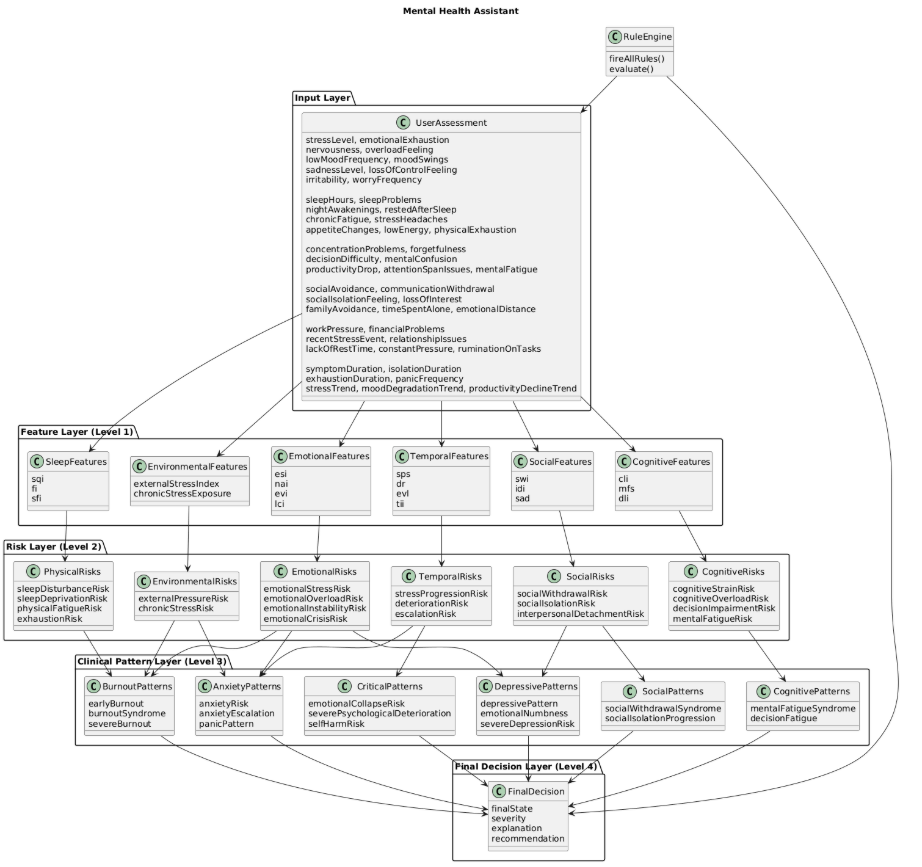
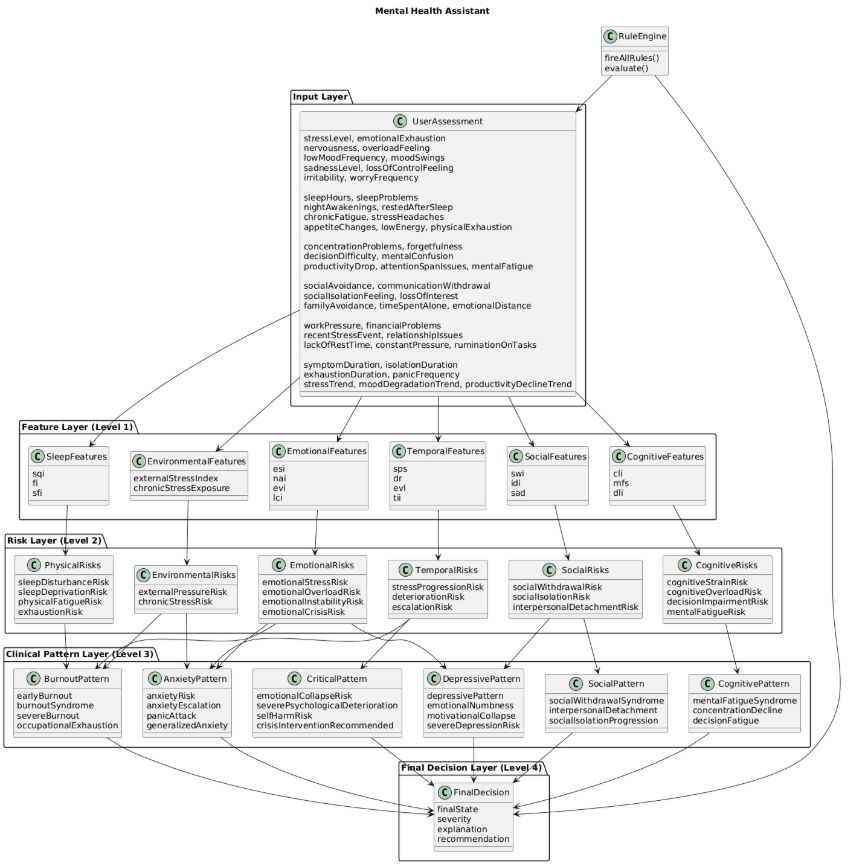
[ADD] patterns and final decision classes

diff --git a/projekat/model/src/main/java/com/ftn/sbnz/model/decision/FinalDecision.java b/projekat/model/src/main/java/com/ftn/sbnz/model/decision/FinalDecision.java
@@ -1,0 +1,62 @@
+package com.ftn.sbnz.model.decision;
+import java.util.List;
+
+public class FinalDecision {
+    private FinalState finalState;
+    private Severity severity;
+
+    private String explanation;
+    private String recommendation;
+
+    private List<String> triggeredPatterns;
+    public FinalDecision(FinalState finalState, Severity severity, String explanation, String recommendation,
+            List<String> triggeredPatterns) {
+        this.finalState = finalState;
+        this.severity = severity;
+        this.explanation = explanation;
+        this.recommendation = recommendation;
+        this.triggeredPatterns = triggeredPatterns;
+    }
+
+    public FinalState getFinalState() {
+        return finalState;
+    }
+
+    public void setFinalState(FinalState finalState) {
+        this.finalState = finalState;
+    }
+
+    public Severity getSeverity() {
+        return severity;
+    }
+
+    public void setSeverity(Severity severity) {
+        this.severity = severity;
+    }
+
+    public String getExplanation() {
+        return explanation;
+    }
+
+    public void setExplanation(String explanation) {
+        this.explanation = explanation;
+    }
+
+    public String getRecommendation() {
+        return recommendation;
+    }
+
+    public void setRecommendation(String recommendation) {
+        this.recommendation = recommendation;
+    }
+
+    public List<String> getTriggeredPatterns() {
+        return triggeredPatterns;
+    }
+
+    public void setTriggeredPatterns(List<String> triggeredPatterns) {
+        this.triggeredPatterns = triggeredPatterns;
+    }
+    
+
+}

diff --git a/projekat/model/src/main/java/com/ftn/sbnz/model/patterns/AnxietyPattern.java b/projekat/model/src/main/java/com/ftn/sbnz/model/patterns/AnxietyPattern.java
@@ -1,0 +1,40 @@
+package com.ftn.sbnz.model.patterns;
+
+public class AnxietyPattern {
+    private boolean anxietyRisk;
+    private boolean anxietyEscalation;
+    private boolean panicAttack;
+    private boolean generalizedAnxiety;
+    public AnxietyPattern(boolean anxietyRisk, boolean anxietyEscalation, boolean panicAttack,
+            boolean generalizedAnxiety) {
+        this.anxietyRisk = anxietyRisk;
+        this.anxietyEscalation = anxietyEscalation;
+        this.panicAttack = panicAttack;
+        this.generalizedAnxiety = generalizedAnxiety;
+    }
+    public boolean isAnxietyRisk() {
+        return anxietyRisk;
+    }
+    public void setAnxietyRisk(boolean anxietyRisk) {
+        this.anxietyRisk = anxietyRisk;
+    }
+    public boolean isAnxietyEscalation() {
+        return anxietyEscalation;
+    }
+    public void setAnxietyEscalation(boolean anxietyEscalation) {
+        this.anxietyEscalation = anxietyEscalation;
+    }
+    public boolean isPanicAttack() {
+        return panicAttack;
+    }
+    public void setPanicAttack(boolean panicAttack) {
+        this.panicAttack = panicAttack;
+    }
+    public boolean isGeneralizedAnxiety() {
+        return generalizedAnxiety;
+    }
+    public void setGeneralizedAnxiety(boolean generalizedAnxiety) {
+        this.generalizedAnxiety = generalizedAnxiety;
+    }
+    
+}

diff --git a/projekat/model/src/main/java/com/ftn/sbnz/model/patterns/BurnoutPattern.java b/projekat/model/src/main/java/com/ftn/sbnz/model/patterns/BurnoutPattern.java
@@ -1,0 +1,40 @@
+package com.ftn.sbnz.model.patterns;
+
+public class BurnoutPattern {
+    private boolean earlyBurnout;
+    private boolean burnoutSyndrome;
+    private boolean severeBurnoutState;
+    private boolean occupationalExhaustion;
+    public BurnoutPattern(boolean earlyBurnout, boolean burnoutSyndrome, boolean severeBurnoutState,
+            boolean occupationalExhaustion) {
+        this.earlyBurnout = earlyBurnout;
+        this.burnoutSyndrome = burnoutSyndrome;
+        this.severeBurnoutState = severeBurnoutState;
+        this.occupationalExhaustion = occupationalExhaustion;
+    }
+    public boolean isEarlyBurnout() {
+        return earlyBurnout;
+    }
+    public void setEarlyBurnout(boolean earlyBurnout) {
+        this.earlyBurnout = earlyBurnout;
+    }
+    public boolean isBurnoutSyndrome() {
+        return burnoutSyndrome;
+    }
+    public void setBurnoutSyndrome(boolean burnoutSyndrome) {
+        this.burnoutSyndrome = burnoutSyndrome;
+    }
+    public boolean isSevereBurnoutState() {
+        return severeBurnoutState;
+    }
+    public void setSevereBurnoutState(boolean severeBurnoutState) {
+        this.severeBurnoutState = severeBurnoutState;
+    }
+    public boolean isOccupationalExhaustion() {
+        return occupationalExhaustion;
+    }
+    public void setOccupationalExhaustion(boolean occupationalExhaustion) {
+        this.occupationalExhaustion = occupationalExhaustion;
+    }
+    
+}

diff --git a/projekat/model/src/main/java/com/ftn/sbnz/model/patterns/CriticalPattern.java b/projekat/model/src/main/java/com/ftn/sbnz/model/patterns/CriticalPattern.java
@@ -1,0 +1,40 @@
+package com.ftn.sbnz.model.patterns;
+
+public class CriticalPattern {
+    private boolean severePsychologicalDeterioration;
+    private boolean emotionalCollapseRisk;
+    private boolean selfHarmRisk;
+    private boolean crisisInterventionRecommended;
+    public CriticalPattern(boolean severePsychologicalDeterioration, boolean emotionalCollapseRisk,
+            boolean selfHarmRisk, boolean crisisInterventionRecommended) {
+        this.severePsychologicalDeterioration = severePsychologicalDeterioration;
+        this.emotionalCollapseRisk = emotionalCollapseRisk;
+        this.selfHarmRisk = selfHarmRisk;
+        this.crisisInterventionRecommended = crisisInterventionRecommended;
+    }
+    public boolean isSeverePsychologicalDeterioration() {
+        return severePsychologicalDeterioration;
+    }
+    public void setSeverePsychologicalDeterioration(boolean severePsychologicalDeterioration) {
+        this.severePsychologicalDeterioration = severePsychologicalDeterioration;
+    }
+    public boolean isEmotionalCollapseRisk() {
+        return emotionalCollapseRisk;
+    }
+    public void setEmotionalCollapseRisk(boolean emotionalCollapseRisk) {
+        this.emotionalCollapseRisk = emotionalCollapseRisk;
+    }
+    public boolean isSelfHarmRisk() {
+        return selfHarmRisk;
+    }
+    public void setSelfHarmRisk(boolean selfHarmRisk) {
+        this.selfHarmRisk = selfHarmRisk;
+    }
+    public boolean isCrisisInterventionRecommended() {
+        return crisisInterventionRecommended;
+    }
+    public void setCrisisInterventionRecommended(boolean crisisInterventionRecommended) {
+        this.crisisInterventionRecommended = crisisInterventionRecommended;
+    }
+    
+}

diff --git a/projekat/model/src/main/java/com/ftn/sbnz/model/patterns/DepressivePattern.java b/projekat/model/src/main/java/com/ftn/sbnz/model/patterns/DepressivePattern.java
@@ -1,0 +1,40 @@
+package com.ftn.sbnz.model.patterns;
+
+public class DepressivePattern {
+    private boolean depressivePattern;
+    private boolean emotionalNumbnessState;
+    private boolean motivationalCollapse;
+    private boolean severeDepressiveRisk;
+    public DepressivePattern(boolean depressivePattern, boolean emotionalNumbnessState, boolean motivationalCollapse,
+            boolean severeDepressiveRisk) {
+        this.depressivePattern = depressivePattern;
+        this.emotionalNumbnessState = emotionalNumbnessState;
+        this.motivationalCollapse = motivationalCollapse;
+        this.severeDepressiveRisk = severeDepressiveRisk;
+    }
+    public boolean isDepressivePattern() {
+        return depressivePattern;
+    }
+    public void setDepressivePattern(boolean depressivePattern) {
+        this.depressivePattern = depressivePattern;
+    }
+    public boolean isEmotionalNumbnessState() {
+        return emotionalNumbnessState;
+    }
+    public void setEmotionalNumbnessState(boolean emotionalNumbnessState) {
+        this.emotionalNumbnessState = emotionalNumbnessState;
+    }
+    public boolean isMotivationalCollapse() {
+        return motivationalCollapse;
+    }
+    public void setMotivationalCollapse(boolean motivationalCollapse) {
+        this.motivationalCollapse = motivationalCollapse;
+    }
+    public boolean isSevereDepressiveRisk() {
+        return severeDepressiveRisk;
+    }
+    public void setSevereDepressiveRisk(boolean severeDepressiveRisk) {
+        this.severeDepressiveRisk = severeDepressiveRisk;
+    }
+    
+}

diff --git a/projekat/model/src/main/java/com/ftn/sbnz/model/decision/FinalState.java b/projekat/model/src/main/java/com/ftn/sbnz/model/decision/FinalState.java
@@ -1,0 +1,35 @@
+package com.ftn.sbnz.model.decision;
+
+public enum FinalState {
+
+    // BURNOUT
+    EARLY_BURNOUT_PATTERN,
+    BURNOUT_SYNDROME,
+    SEVERE_BURNOUT_STATE,
+
+    // ANXIETY
+    ANXIETY_RISK_PATTERN,
+    ANXIETY_ESCALATION_STATE,
+    PANIC_ATTACK_PATTERN,
+    GENERALIZED_ANXIETY_TENDENCY,
+
+    // DEPRESSION
+    DEPRESSIVE_PATTERN,
+    EMOTIONAL_NUMBNESS_STATE,
+    SEVERE_DEPRESSIVE_RISK_PATTERN,
+
+    // COGNITIVE
+    MENTAL_FATIGUE_SYNDROME,
+    DECISION_FATIGUE_STATE,
+
+    // SOCIAL
+    SOCIAL_WITHDRAWAL_SYNDROME,
+    INTERPERSONAL_DETACHMENT_PATTERN,
+    SOCIAL_ISOLATION_PROGRESSION,
+
+    // CRITICAL
+    SEVERE_PSYCHOLOGICAL_DETERIORATION,
+    EMOTIONAL_COLLAPSE_RISK,
+    SELF_HARM_RISK_PATTERN,
+    CRISIS_INTERVENTION_RECOMMENDED
+}

diff --git a/projekat/model/src/main/java/com/ftn/sbnz/model/patterns/SocialPattern.java b/projekat/model/src/main/java/com/ftn/sbnz/model/patterns/SocialPattern.java
@@ -1,0 +1,32 @@
+package com.ftn.sbnz.model.patterns;
+
+public class SocialPattern {
+    private boolean socialWithdrawal;
+    private boolean interpersonalDetachment;
+    private boolean socialIsolationProgression;
+    public SocialPattern(boolean socialWithdrawal, boolean interpersonalDetachment,
+            boolean socialIsolationProgression) {
+        this.socialWithdrawal = socialWithdrawal;
+        this.interpersonalDetachment = interpersonalDetachment;
+        this.socialIsolationProgression = socialIsolationProgression;
+    }
+    public boolean isSocialWithdrawal() {
+        return socialWithdrawal;
+    }
+    public void setSocialWithdrawal(boolean socialWithdrawal) {
+        this.socialWithdrawal = socialWithdrawal;
+    }
+    public boolean isInterpersonalDetachment() {
+        return interpersonalDetachment;
+    }
+    public void setInterpersonalDetachment(boolean interpersonalDetachment) {
+        this.interpersonalDetachment = interpersonalDetachment;
+    }
+    public boolean isSocialIsolationProgression() {
+        return socialIsolationProgression;
+    }
+    public void setSocialIsolationProgression(boolean socialIsolationProgression) {
+        this.socialIsolationProgression = socialIsolationProgression;
+    }
+    
+}

diff --git a/projekat/model/src/main/java/com/ftn/sbnz/model/patterns/CognitivePattern.java b/projekat/model/src/main/java/com/ftn/sbnz/model/patterns/CognitivePattern.java
@@ -1,0 +1,31 @@
+package com.ftn.sbnz.model.patterns;
+
+public class CognitivePattern {
+    private boolean mentalFatigueSyndrome;
+    private boolean concentrationDecline;
+    private boolean decisionFatigue;
+    public CognitivePattern(boolean mentalFatigueSyndrome, boolean concentrationDecline, boolean decisionFatigue) {
+        this.mentalFatigueSyndrome = mentalFatigueSyndrome;
+        this.concentrationDecline = concentrationDecline;
+        this.decisionFatigue = decisionFatigue;
+    }
+    public boolean isMentalFatigueSyndrome() {
+        return mentalFatigueSyndrome;
+    }
+    public void setMentalFatigueSyndrome(boolean mentalFatigueSyndrome) {
+        this.mentalFatigueSyndrome = mentalFatigueSyndrome;
+    }
+    public boolean isConcentrationDecline() {
+        return concentrationDecline;
+    }
+    public void setConcentrationDecline(boolean concentrationDecline) {
+        this.concentrationDecline = concentrationDecline;
+    }
+    public boolean isDecisionFatigue() {
+        return decisionFatigue;
+    }
+    public void setDecisionFatigue(boolean decisionFatigue) {
+        this.decisionFatigue = decisionFatigue;
+    }
+    
+}

diff --git a/projekat/model/src/main/java/com/ftn/sbnz/model/decision/Severity.java b/projekat/model/src/main/java/com/ftn/sbnz/model/decision/Severity.java
@@ -1,0 +1,7 @@
+package com.ftn.sbnz.model.decision;
+
+public enum Severity {
+    MODERATE,
+    HIGH,
+    CRITICAL
+}